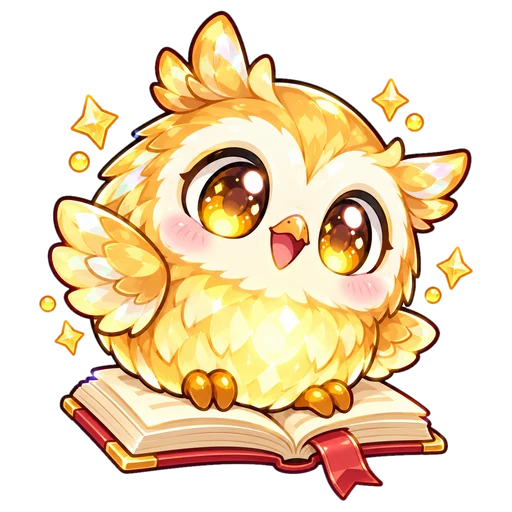
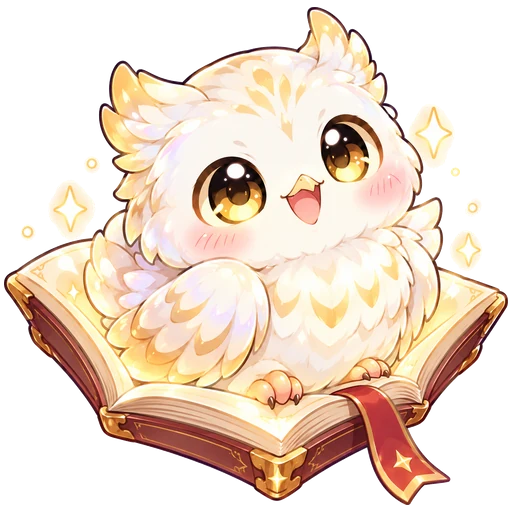
Neue Bilder für Infernyx und die Eulen-Reihe
Infernyx ist jetzt ein Feuerfuchs statt eines Phönix, die Eulen sind weiß mit
angelegten Flügeln. Pedia-Texte von Infernyx und Leuchteule passen zu den Bildern.

Claude-Session: https://claude.ai/code/session_01TGn6EjRVc9B79essH2pvij

diff --git a/src/pedia.ts b/src/pedia.ts
@@ -77,14 +77,14 @@ export const PEDIA: Record<string, Entry> = {
     legend: 'Spumagons Schild ist ein Schwamm, der seit tausend Jahren nicht ausgewrungen wurde. Wer ihn einmal auswringt, bekommt angeblich nie wieder eine dreckige Wanne.',
   },
   '5': {
-    sizes: ['0,35 m', '1,1 m', '3,4 m Spannweite'],
-    weights: ['4 kg', '19 kg', '31 kg'],
-    compare: ['So groß wie ein Kochtopf', 'So hoch wie ein Backofen', 'Flügel so breit wie eine ganze Küchenzeile'],
+    sizes: ['0,35 m', '1,1 m', '1,9 m'],
+    weights: ['4 kg', '19 kg', '45 kg'],
+    compare: ['So groß wie ein Kochtopf', 'So hoch wie ein Backofen', 'Mit Schweifen so lang wie eine ganze Küchenzeile'],
     room: 'Küche',
     text: [
       'Funki hält die Herdplatten warm, auch wenn niemand kocht. Eingebrannte Reste brennt es einfach noch einmal ein, bis sie aufgeben und abfallen.',
       'Glutfuchs trägt ein Halstuch, damit keine Funken in den Topf fallen. Es weiß immer genau, wann der Kuchen fertig ist, und schnüffelt so lange am Backofen, bis jemand ihn öffnet.',
-      "Infernyx' Flammen sind so heiß, dass Fettspritzer schon in der Luft verdampfen. Nach jedem Flügelschlag glänzt die ganze Küche wie neu.",
+      "Infernyx' Flammen sind so heiß, dass Fettspritzer schon in der Luft verdampfen. Ein Schwung seiner fünf Schweife, und die ganze Küche glänzt wie neu.",
     ],
     likes: 'saubere Backöfen, der Geruch von frischem Toast',
     dislikes: 'fettige Dunstabzugshauben, Wasserpistolen',
@@ -208,7 +208,7 @@ export const PEDIA: Record<string, Entry> = {
     room: 'Leseecke',
     text: [
       'Huhu schläft tagsüber zwischen zwei Buchdeckeln und wird erst wach, wenn es draußen dunkel wird. Seine Federn leuchten genau so hell, dass man noch eine Seite weiterlesen kann.',
-      'Leuchteule sitzt auf der Leselampe und knipst sie an, sobald jemand ein Buch aufschlägt. Staub auf dem Regal pustet sie mit einem einzigen Flügelschlag weg.',
+      'Leuchteule trägt den Lampenschirm wie einen Hut und knipst das Licht an, sobald jemand ein Buch aufschlägt. Mit ihrer Lesebrille entdeckt sie jedes Staubkorn auf dem Regal.',
       'Astralux trägt Sternbilder in den Flügeln und stellt nachts jedes liegen gebliebene Buch zurück ins Regal. Morgens steht alles so gerade, als hätte nie jemand darin gelesen.',
     ],
     likes: 'warmes Leselicht, Lesezeichen',

diff --git a/src/news.ts b/src/news.ts
@@ -14,7 +14,7 @@ export const NEWS: News[] = [
   { id: 9, title: 'Wochenrückblick', text: 'Zum Wochenstart seht ihr vor der Monsterwahl, was eure Monster letzte Woche geschafft haben: XP, Level, Entwicklungen und Aufgaben pro Element. Alle Wochen findet ihr in der Putzy-Pedia.' },
   { id: 10, title: 'Listen merken sich die Stelle', text: 'Nach dem Zurück aus einer Monsterreihe oder einer Aufgabe landet ihr wieder an derselben Stelle der Liste. Auf schmalen Handys sind jetzt beide Monster auf der Startseite ganz zu sehen.' },
   { id: 11, title: 'Mehr im Pedia', text: 'Jede Stufe hat jetzt ihren eigenen Pedia-Eintrag, und der Steckbrief verrät, wie groß ein Monster im Vergleich wirklich ist. Ab Level 5 stehen dort außerdem eure Werte: Lieblingsaufgabe, dabei seit und Rekordwoche.' },
-  { id: 12, title: 'Glitzi und Brisi', text: 'Funkel heißt jetzt Glitzi und Fluffi heißt Brisi, damit sie nicht mehr mit Funki und Flausch verwechselt werden. Außerdem haben einige Pedia-Einträge neue Texte, damit sich die Monster weniger wiederholen.' },
+  { id: 12, title: 'Neue Namen und Bilder', text: 'Funkel heißt jetzt Glitzi und Fluffi heißt Brisi, damit sie nicht mehr mit Funki und Flausch verwechselt werden. Infernyx ist jetzt ein Feuerfuchs, und einige Pedia-Einträge haben neue Texte, damit sich die Monster weniger wiederholen.' },
 ]
 
 export const LATEST_NEWS = Math.max(0, ...NEWS.map((n) => n.id))
